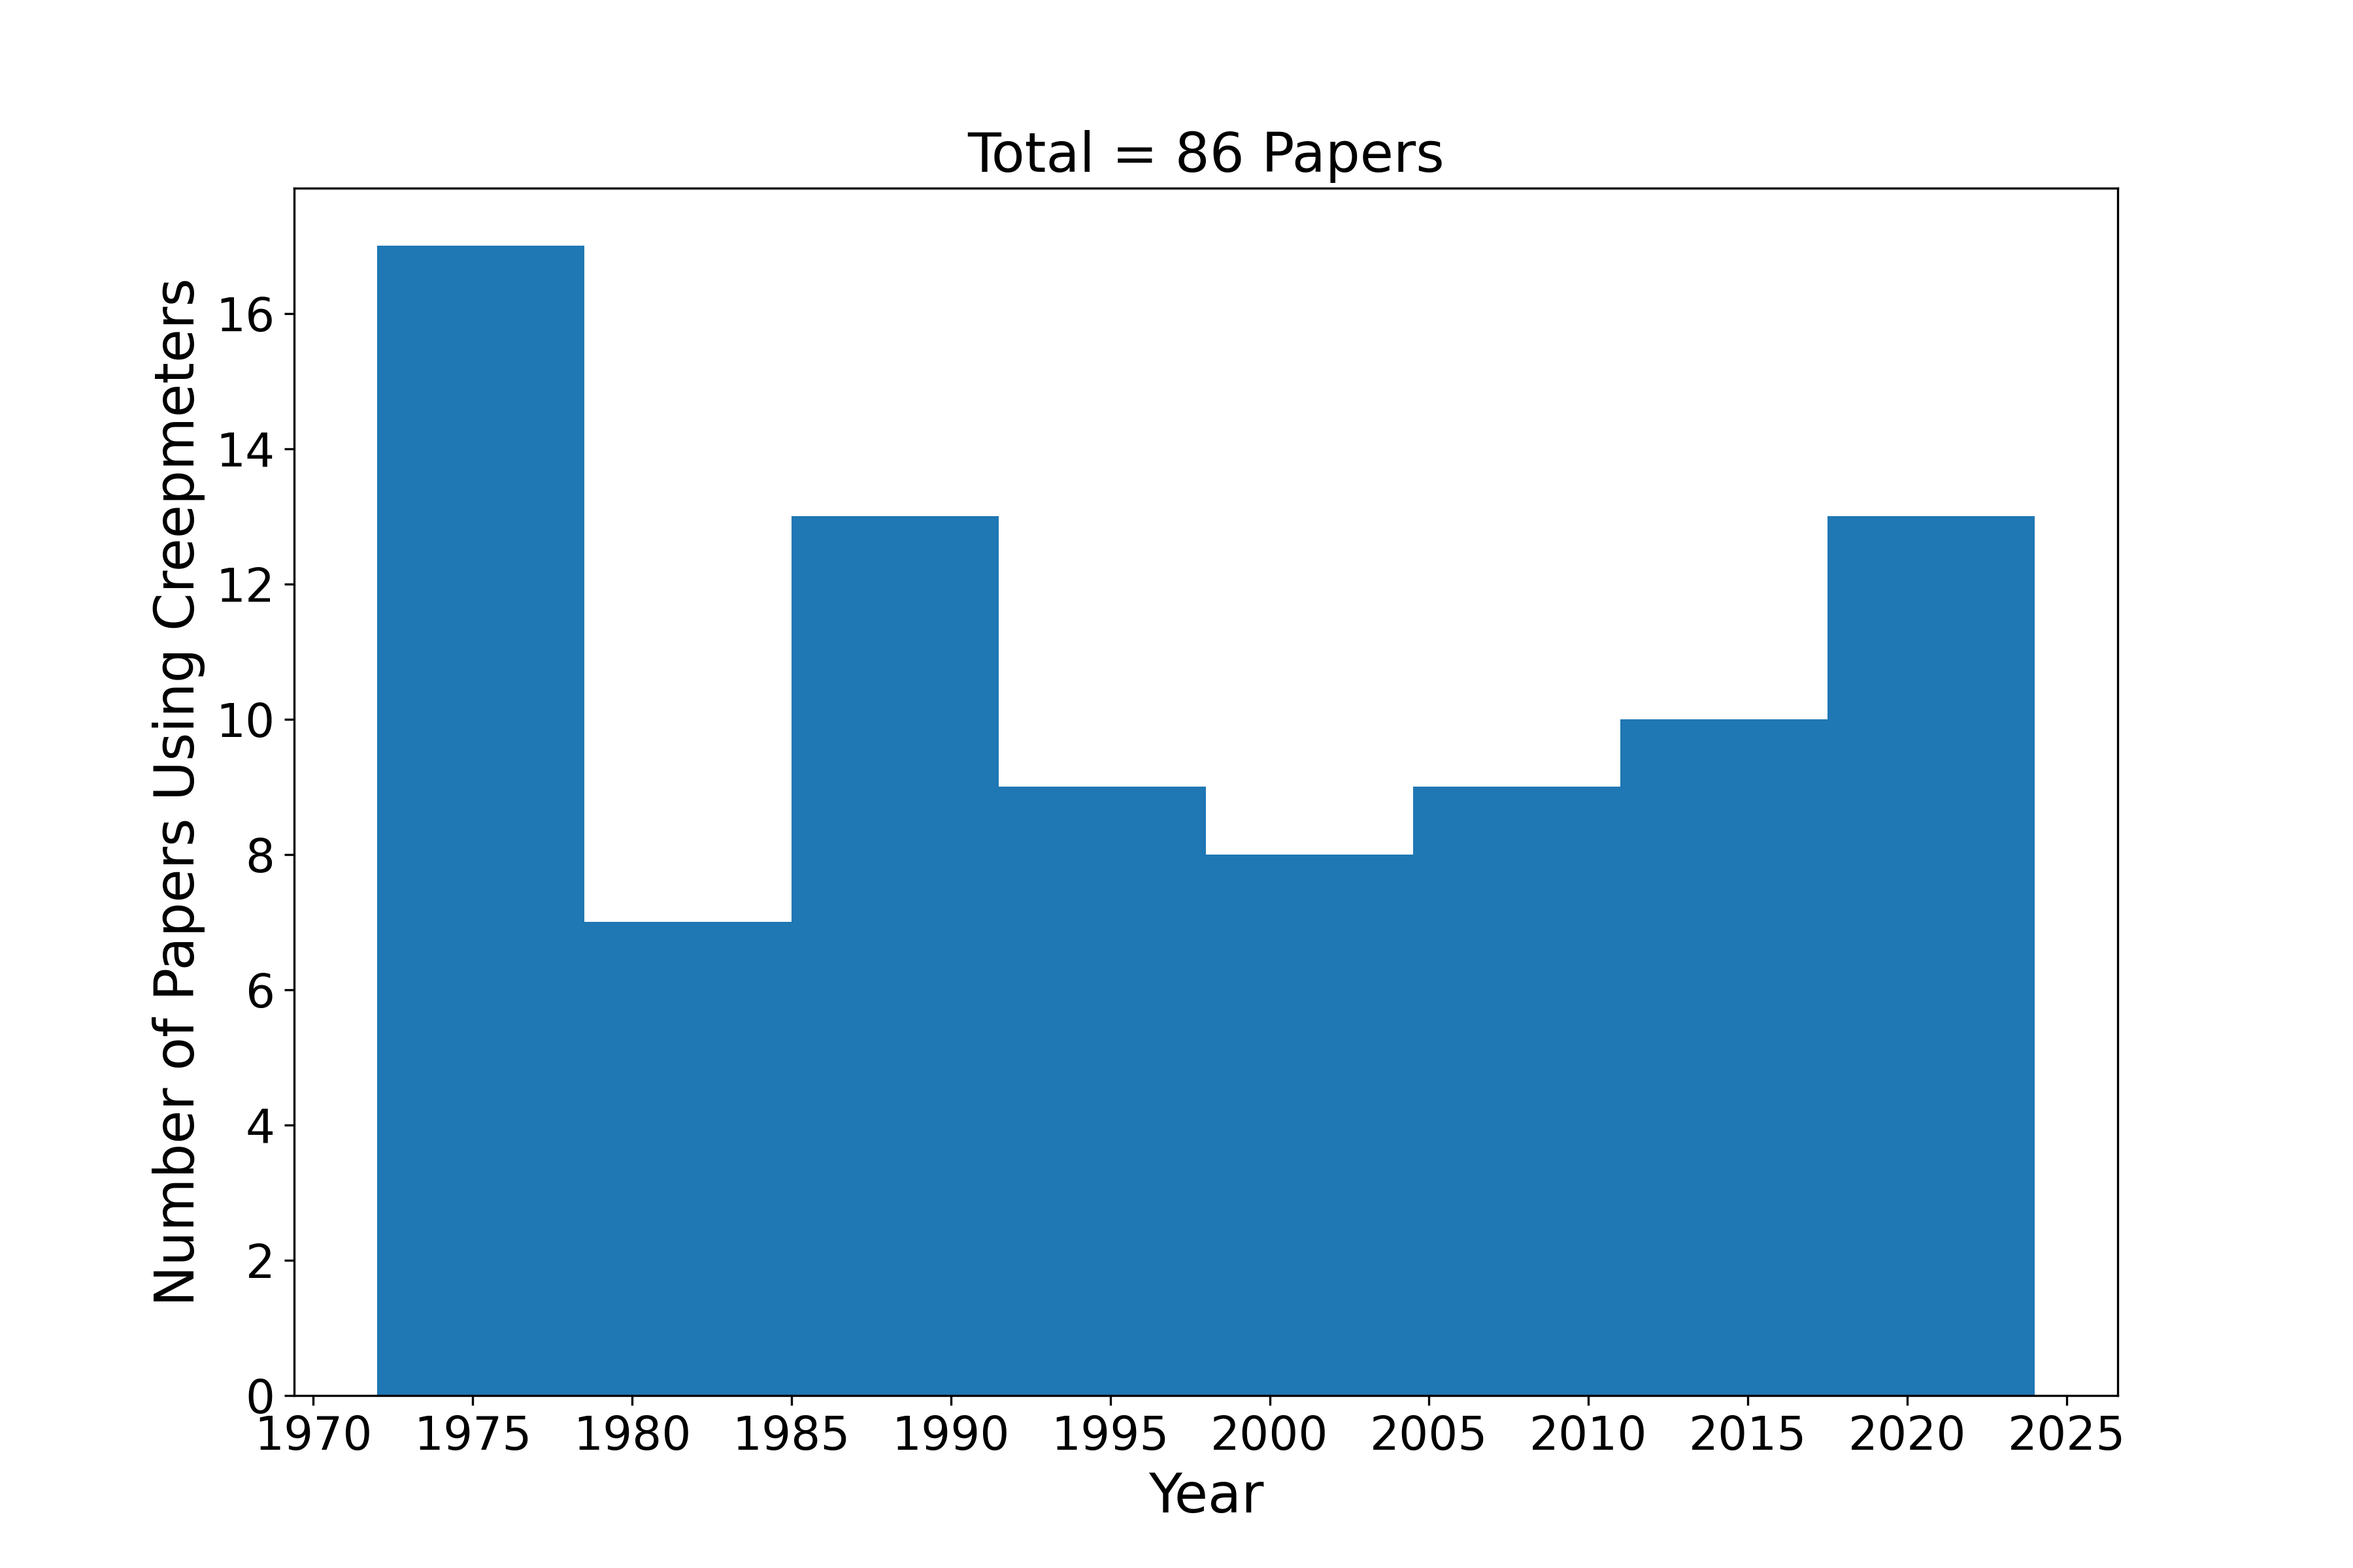
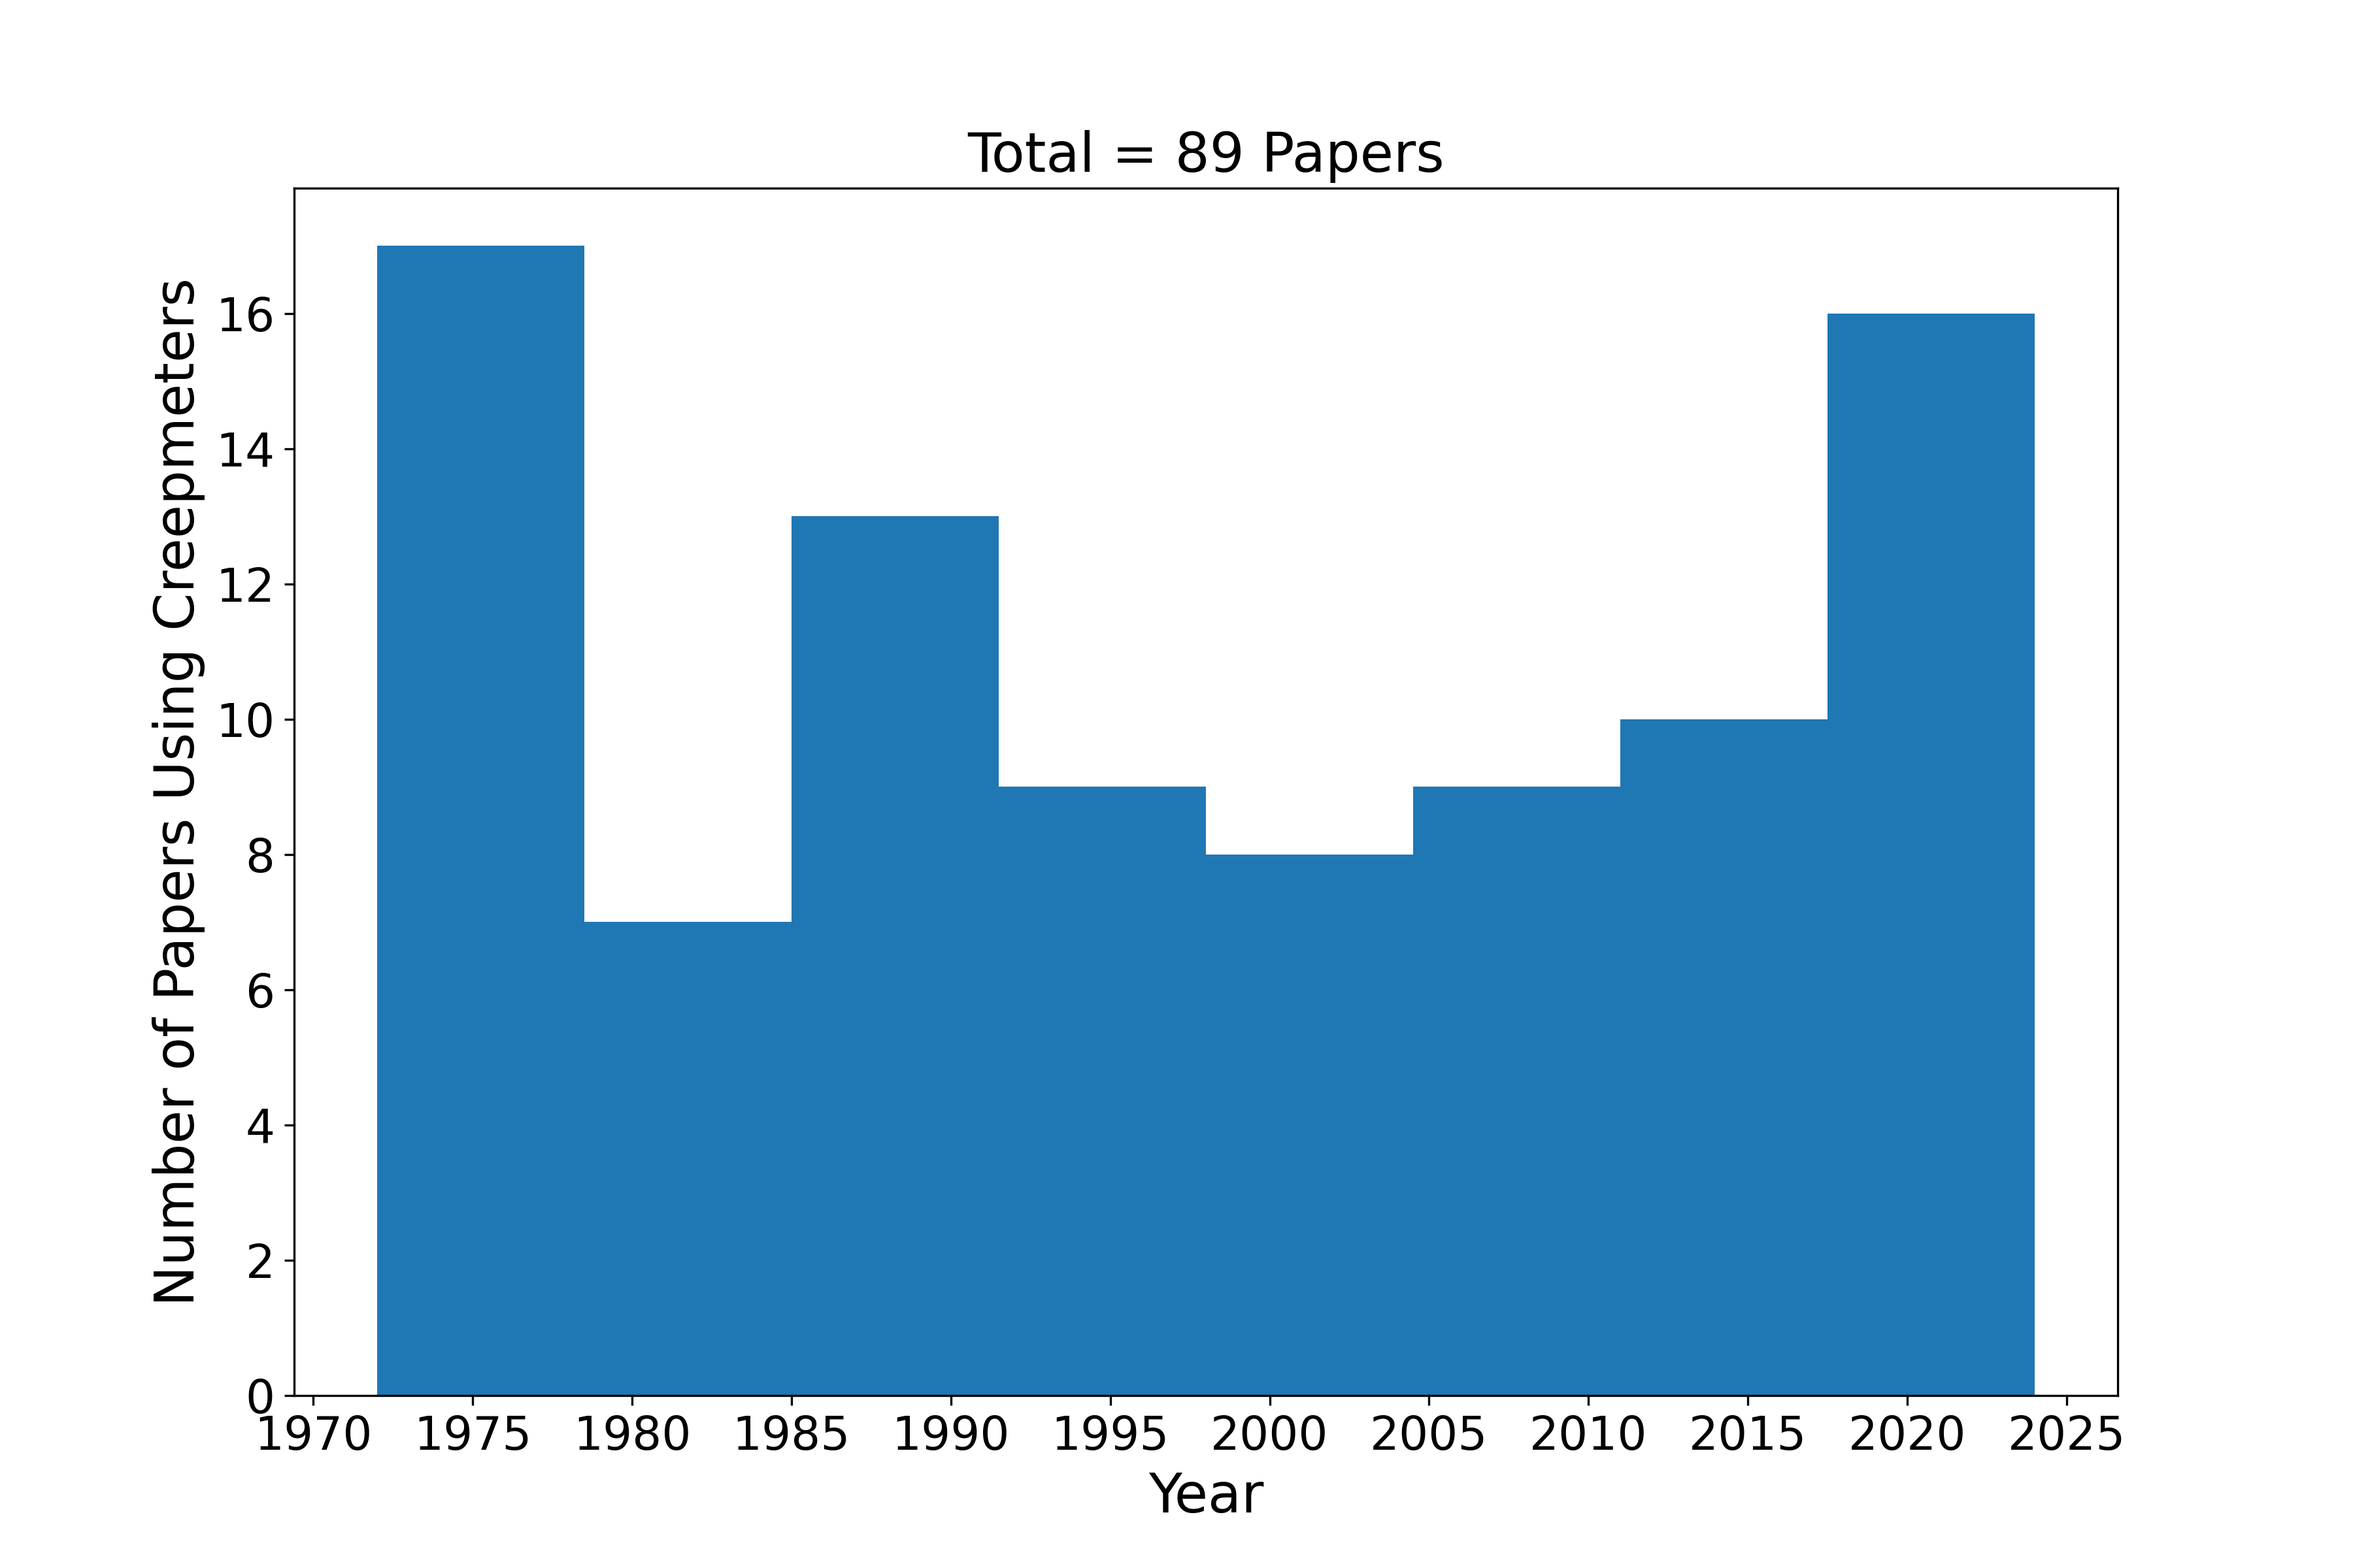
few new 2024 papers

Changed region(s): [[0.7778, 0.1875, 0.8711, 0.3438]]

diff --git a/Papers/2010s.md b/Papers/2010s.md
@@ -9,6 +9,7 @@
 * Khoshmanesh, M., Shirzaei, M., & Nadeau, R. M. (2015). Time-dependent model of aseismic slip on the central San Andreas Fault from InSAR time series and repeating earthquakes. Journal of Geophysical Research: Solid Earth, 120(9), 6658–6679. https://doi.org/10.1002/2015JB012039 {CA}
 * Field, E. H., Biasi, G. P., Bird, P., Dawson, T. E., Felzer, K. R., Jackson, D. D., Johnson, K. M., Jordan, T. H., Madden, C., Michael, A. J., Milner, K. R., Page, M. T., Parsons, T., Powers, P. M., Shaw, B. E., Thatcher, W. R., Weldon, R. J., & Zeng, Y. (2015). Long-term time-dependent probabilities for the third uniform California earthquake rupture forecast (UCERF3). Bulletin of the Seismological Society of America, 105(2), 511–543. https://doi.org/10.1785/012014009 {CA}
 * Bilham, R., Ozener, H., Mencin, D., Dogru, A., Ergintav, S., Cakir, Z., Aytun, A., Aktug, B., Yilmaz, O., Johnson, W., & Mattoli, G. (2016). Surface creep on the North Anatolian fault at Ismetpasa, Turkey, 1944-2016. Journal of Geophysical Research: Solid Earth, 121, 3782–3803. https://doi.org/10.1002/2016JB013394 {Turkey}
+* Victor, P., Oncken, O., Sobiesiak, M., Kemter, M., Gonzalez, G., & Ziegenhagen, T. (2018). Dynamic triggering of shallow slip on forearc faults constrained by monitoring surface displacement with the IPOC Creepmeter Array. Earth and Planetary Science Letters, 502, 57–73. {Chile}
 * Bürgmann, R. (2018). The geophysics, geology and mechanics of slow fault slip. Earth and Planetary Science Letters, 495, 112–134. https://doi.org/10.1016/j.epsl.2018.04.062 {General}
 * Tymofyeyeva, E., Fialko, Y., Jiang, J., Xu, X., Sandwell, D., Bilham, R., Rockwell, T. K., Blanton, C., Burkett, F., Gontz, A., & Moafipoor, S. (2019). Slow Slip Event On the Southern San Andreas Fault Triggered by the 2017 Mw8.2 Chiapas (Mexico) Earthquake. Journal of Geophysical Research: Solid Earth, 124(9), 9956–9975. https://doi.org/10.1029/2018JB016765 {CA}
 * Aslan, G., Lasserre, C., Cakir, Z., Ergintav, S., Özarpaci, S., Dogan, U., Bilham, R., & Renard, F. (2019). Shallow Creep Along the 1999 Izmit Earthquake Rupture (Turkey) From GPS and High Temporal Resolution Interferometric Synthetic Aperture Radar Data (2011–2017). Journal of Geophysical Research: Solid Earth, 124(2), 2218–2236. https://doi.org/10.1029/2018JB017022 {Turkey}

diff --git a/Papers/2020s.md b/Papers/2020s.md
@@ -5,6 +5,8 @@
 * Jolivet, R., Jara, J., Dalaison, M., Rouet-Leduc, B., Özdemir, A., Dogan, U., Çakir, Z., Ergintav, S., & Dubernet, P. (2023). Daily to Centennial Behavior of Aseismic Slip Along the Central Section of the North Anatolian Fault. Journal of Geophysical Research: Solid Earth, 128(7). https://doi.org/10.1029/2022JB026018 {Turkey}
 * Cakir, Z., Doğan, U., Akoğlu, A. M., Ergintav, S., Özarpacı, S., Özdemir, A., Nozadkhalil, T., Çakir, N., Zabcı, C., Erkoç, M. H., Basmenji, M., Köküm, M., & Bilham, R. (2023). Arrest of the Mw 6.8 January 24, 2020 Elaziğ (Turkey) earthquake by shallow fault creep. Earth and Planetary Science Letters, 608. https://doi.org/10.1016/j.epsl.2023.118085 {Turkey}
 * Shearer, P. M., & Fan, W. (2023). Space–Time Asymmetry in Earthquake Pairs along the Central San Andreas Fault: Evidence for Small Earthquake Links at Long Distances. The Seismic Record, 3(2), 77–85. https://doi.org/10.1785/0320230002 {CA}
+* Li, Y., Bürgmann, R., & Taira, T. (2023). Spatiotemporal variations of surface deformation, shallow creep rate, and slip partitioning between the San Andreas and southern Calaveras Fault. Journal of Geophysical Research: Solid Earth, 128, e2022JB025363. https://doi.org/10.1029/2022JB025363 {CA}
 * Vavra, E., Fialko, Y., Rockwell, T., Bilham, R., Stepancikova, P., Stemberk, J., Taborik, P., & Stemberk, J. (2024). Characteristic Slow-Slip Events on the Superstition Hills Fault, Southern California. Geophysical Research Letters. {CA}
 * Materna, K., Burgmann, R., Lindsay, D., Bilham, R., Herring, T., Crowell, B., & Szeliga, W. (2024). Shallow slow slip events in the Imperial Valley with along-strike propagation. In Review at Geophysical Research Letters. {CA}
 * Langbein, J., Bilham, R. G., Snyder, H. A., & Ericksen, T. (2024). Summary of Creepmeter Data from 1980 to 2020-Measurements Spanning the Hayward, Calaveras, and San Andreas Faults in Northern and Central California. {CA}
+* Gittins, D. B., & Hawthorne, J. C. (2024). Scattered M3–4 Slip Bursts Within Creep Events on the San Andreas Fault. Journal of Geophysical Research: Solid Earth, 129(6). https://doi.org/10.1029/2023JB028187 {CA}
